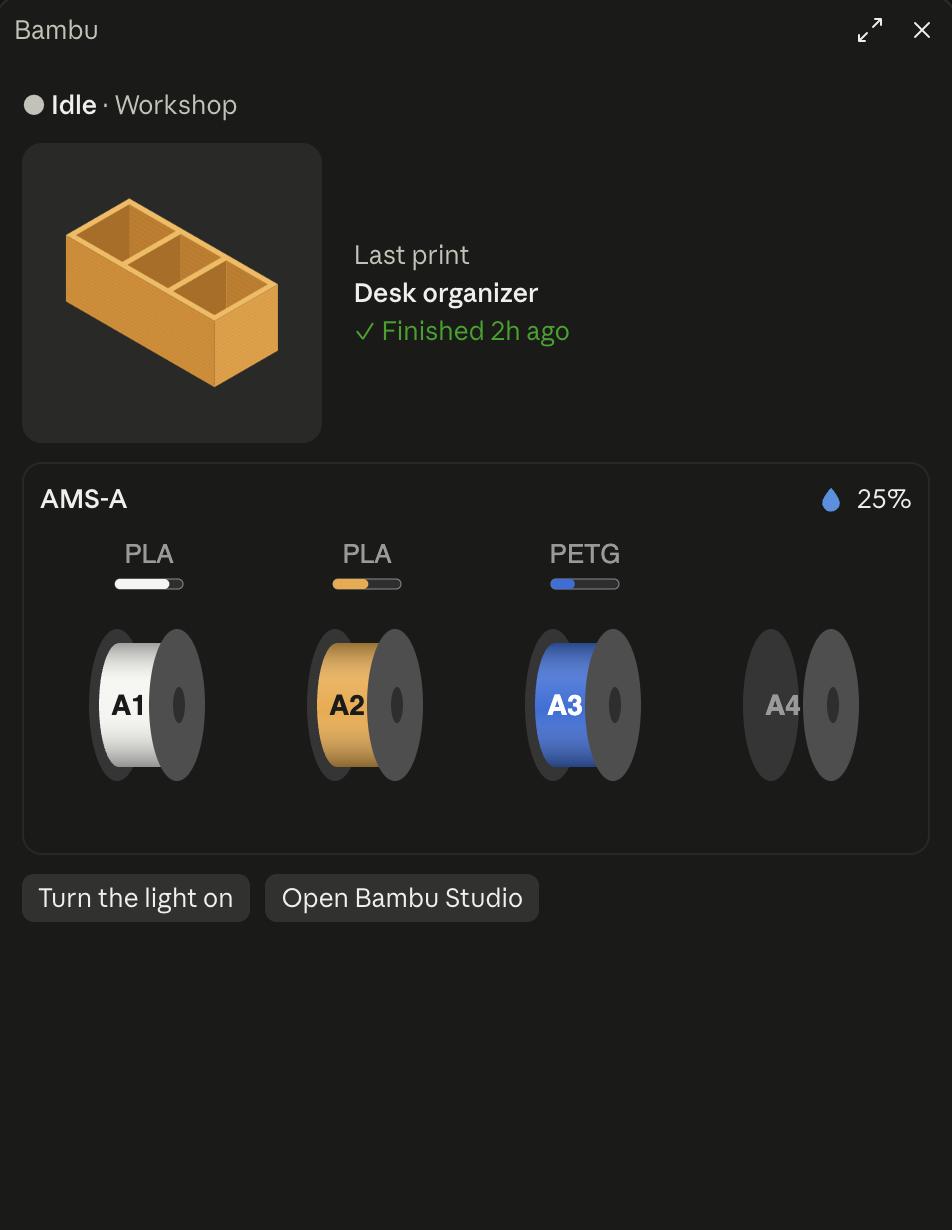
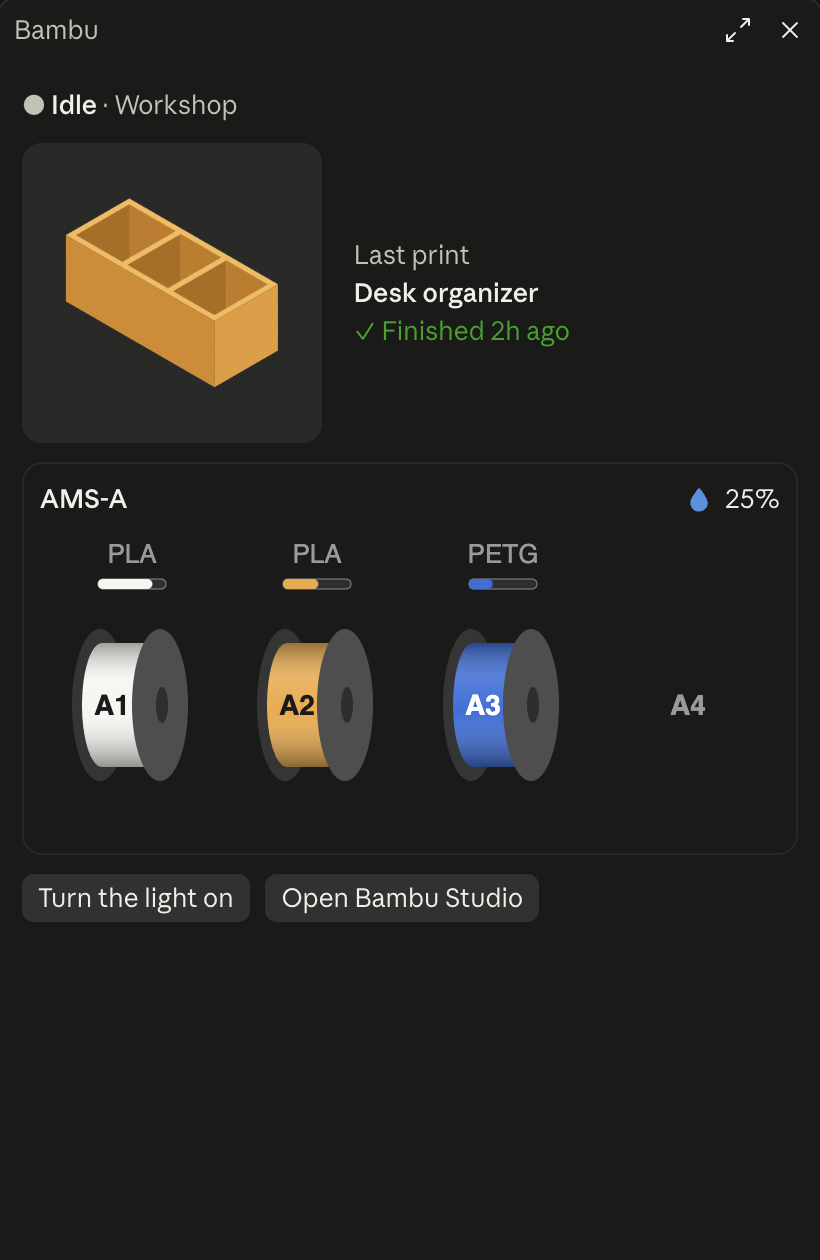
Release 0.4.1: empty AMS slot, narrow print card

diff --git a/hooks/register.tsx b/hooks/register.tsx
@@ -95,6 +95,12 @@ function spoolSvg(slot: Slot): string {
       `<stop offset="1" stop-color="${color}" stop-opacity="0"/></linearGradient></defs>` +
       `<rect x="${front - 17}" y="${cy}" width="4" height="${height - cy}" fill="url(#feed)" stroke="#00000033" stroke-width="0.5"/>`
   }
+  // An empty slot is just its name where the spool would be.
+  if (slot.empty) {
+    out += `<text x="${cx}" y="${cy + 5}" ${FONT} font-size="14" font-weight="600" fill="#9A9A9A" text-anchor="middle">${slot.name}</text>`
+
+    return `<svg xmlns="http://www.w3.org/2000/svg" width="${width}" height="${height}" viewBox="0 0 ${width} ${height}">${out}</svg>`
+  }
   // The back flange, the winding (a cylinder, shaded round), the front flange and its hub.
   out += `<ellipse cx="${front - 30}" cy="${cy}" rx="14" ry="38" fill="#353535"/>`
   if (!slot.empty) {
@@ -510,7 +516,8 @@ export const register: Register = (on, options) => {
         <Box flexDirection="column" gap={1} borderStyle="round" borderDimColor paddingX={1}>
           <Box flexDirection="row" gap={2} alignItems="center">
             {picture}
-            <Box flexDirection="column" flexGrow={1} flexShrink={1}>
+            {/* minWidth 0: the bar's own width must not hold the column wider than a narrow pane. */}
+            <Box flexDirection="column" flexGrow={1} flexShrink={1} minWidth={0}>
               <Text bold wrap="truncate-end">
                 {v.name}
               </Text>

diff --git a/CHANGELOG.md b/CHANGELOG.md
@@ -2,6 +2,13 @@
 
 Each version's section becomes its GitHub release's notes when its `v<version>` tag is pushed.
 
+## 0.4.1 - 2026-10-22
+
+### Fixed
+
+- An empty AMS slot shows only its name instead of a spool with no filament on it.
+- In a narrow pane, the print's settings and progress bar stay inside the print card.
+
 ## 0.4.0 - 2026-10-22
 
 The pane is laid out like Bambu Handy.
